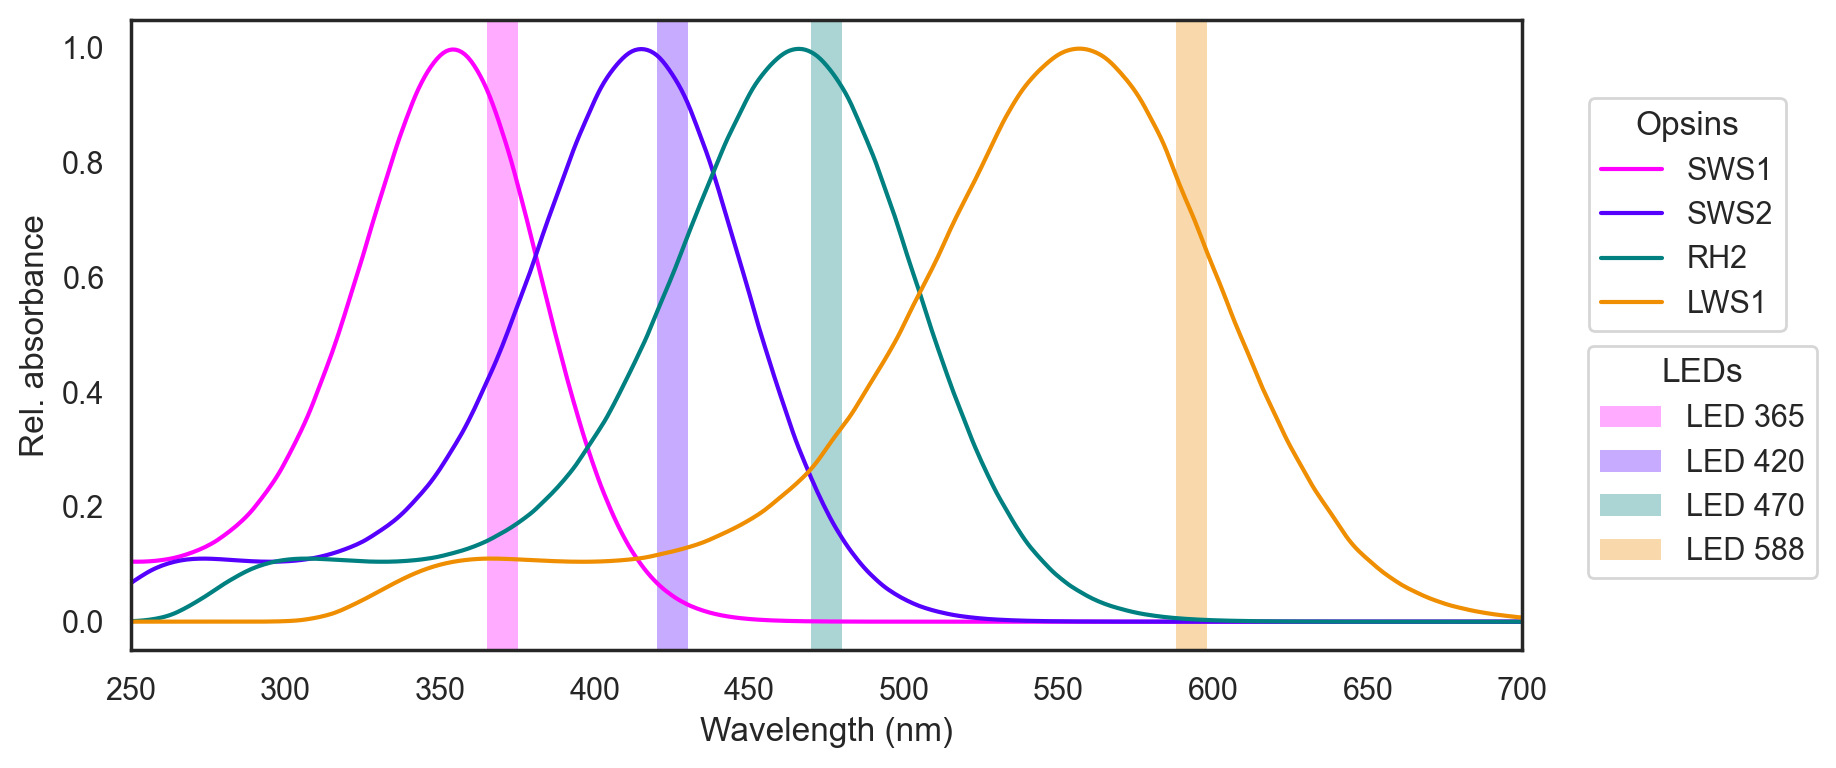
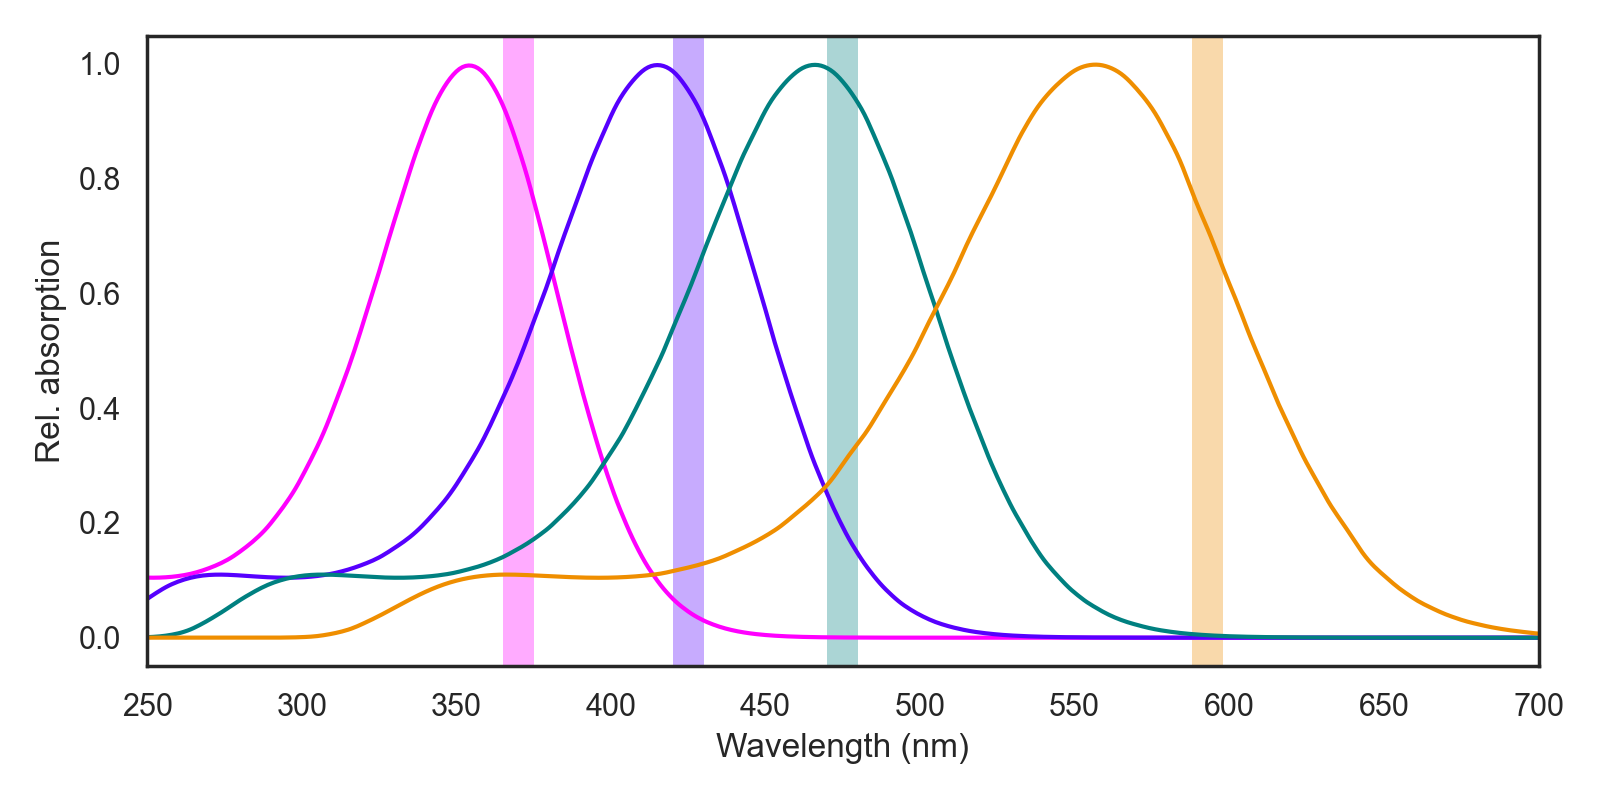
Add code for plotting:)

Changed region(s): [[0.0, 0.0, 1.0, 0.9688]]

diff --git a/gen_plots.py b/gen_plots.py
@@ -1,0 +1,53 @@
+import numpy as np
+import matplotlib.pyplot as plt
+import seaborn as sns
+import scipy
+
+sns.set_context('talk')
+sns.set_theme(style="white")
+
+opsins = np.load(r"AllOpsins.npy")
+zeb_ops = [355, 416, 467, 558]
+led_wvs = [365, 420, 470, 588]
+colours = np.flip(["#ef8e00", "teal","#5600fe", "fuchsia"])
+ops_name = ["SWS1", "SWS2", "RH2", "LWS1"]
+
+# Plot heatmap
+fig, ax = plt.subplots(1, 1, figsize = (8, 4), dpi = 200)
+plt.imshow(opsins, cmap = "Greys_r")
+for n, i in enumerate(zeb_ops):
+    plt.axhline(i, c = colours[n], label = f"{ops_name[n]}")
+plt.ylabel("Opsin template (nm)")
+plt.xlabel("Wavelength (nm)")
+cbar = plt.colorbar()
+cbar.set_label('Rel. absorption', rotation=90)
+cbar.ax.get_yaxis().labelpad = 5
+cbar.ax.set_yticks([0, .25, .5, .75, 1], [0, .25, .5, .75, 1])
+plt.tight_layout()
+plt.legend()
+
+# Plot opsin profile
+fig, ax = plt.subplots(1, 1, figsize = (8, 4), dpi = 200)
+for n, i in enumerate(zeb_ops):
+    line = opsins[i]
+    ysmoothed = scipy.ndimage.filters.gaussian_filter1d(line, sigma=2)   
+    plt.plot(ysmoothed, c =colours[n], label = f"{ops_name[n]}")
+    # plt.axvspan(led_wvs[n], led_wvs[n]+10, color = colours[n], alpha = .33, lw = 0, label = f"LED {led_wvs[n]}")
+plt.xlim(250, 700)
+plt.xlabel("Wavelength (nm)")
+plt.ylabel("Rel. absorption")
+for n, i in enumerate(zeb_ops):
+    plt.axvspan(led_wvs[n], led_wvs[n]+10, color = colours[n], alpha = .33, lw = 0, label = f"LED {led_wvs[n]}")
+plt.tight_layout()
+
+legs_labels = plt.gca().get_legend_handles_labels()
+opsin_labels = legs_labels[1][:4]
+opsin_handles = legs_labels[0][:4]
+leds_labels = legs_labels[1][4:]
+leds_handles = legs_labels[0][4:]
+
+
+leg1 = plt.legend(opsin_handles, opsin_labels, title = "Opsins", bbox_to_anchor=(1.2, .9), loc=0)
+leg2 = plt.legend(leds_handles, leds_labels, title = "LEDs", bbox_to_anchor=(1.036, .09), loc=0)
+ax.add_artist(leg1)
+plt.show()
